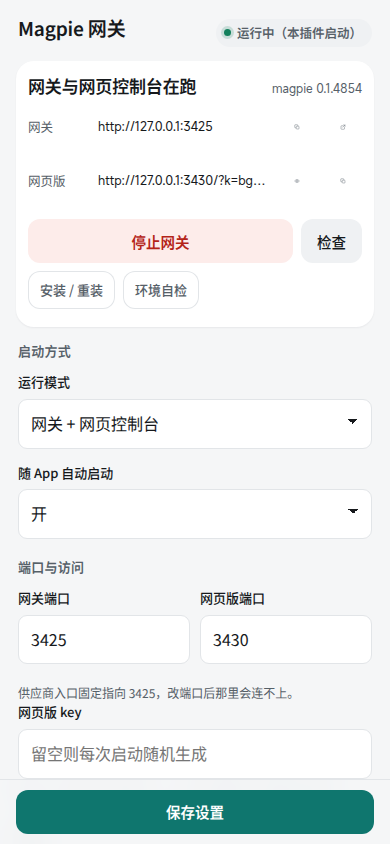
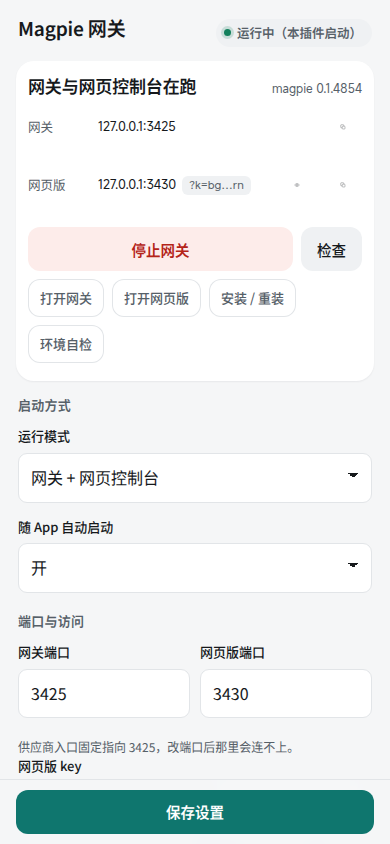
magpie gateway: Nox plugin

diff --git a/nox/magpie-gateway/pages/panel.html b/nox/magpie-gateway/pages/panel.html
@@ -80,7 +80,12 @@
   .status-lg { font-size: 17px; font-weight: 650; line-height: 1.35; letter-spacing: -.01em; }
   .meta { font: 12px/1.4 var(--mono); color: var(--muted); }
 
-  .addr { display: flex; align-items: center; gap: 8px; padding: 2px 0; margin-top: 6px; }
+  .addr {
+    display: flex; align-items: center; gap: 8px; padding: 6px 4px; margin: 2px -4px 0;
+    border-radius: 10px; cursor: pointer; transition: background .16s ease;
+  }
+  .addr:active { background: var(--surface-sunken); }
+  .addr:focus-visible { outline: 2px solid var(--accent); outline-offset: 1px; }
   .addr:first-of-type { margin-top: 12px; }
   .addr .label { font-size: 12.5px; color: var(--muted); flex: none; width: 62px; }
   .keychip {
@@ -221,7 +226,6 @@
         <span class="label">网关</span>
         <span class="value" id="gatewayUrl">—</span>
         <button class="icon-btn" data-act="act-copy-gateway" aria-label="复制网关地址"><svg viewBox="0 0 24 24" width="16" height="16" fill="none" stroke="currentColor" stroke-width="1.7" stroke-linecap="round" stroke-linejoin="round"><rect x="9" y="9" width="11" height="11" rx="2.5"/><path d="M6.5 15H5.2A2.2 2.2 0 0 1 3 12.8V5.2A2.2 2.2 0 0 1 5.2 3h7.6A2.2 2.2 0 0 1 15 5.2V6.5"/></svg></button>
-        <button class="icon-btn" data-act="act-open-gateway" aria-label="在浏览器打开网关"><svg viewBox="0 0 24 24" width="16" height="16" fill="none" stroke="currentColor" stroke-width="1.7" stroke-linecap="round" stroke-linejoin="round"><path d="M14 4h6v6"/><path d="M20 4l-8.5 8.5"/><path d="M18 14v4.5A2.5 2.5 0 0 1 15.5 21h-9A2.5 2.5 0 0 1 4 18.5v-9A2.5 2.5 0 0 1 6.5 7H11"/></svg></button>
       </div>
 
       <div class="addr" id="webRow" style="display:none">
@@ -242,6 +246,8 @@
       </div>
 
       <div class="chips">
+        <button data-act="act-open-gateway">打开网关</button>
+        <button data-act="act-open-web">打开网页版</button>
         <button data-act="act-install" data-busy>安装 / 重装</button>
         <button data-act="act-diag" data-busy>环境自检</button>
       </div>
